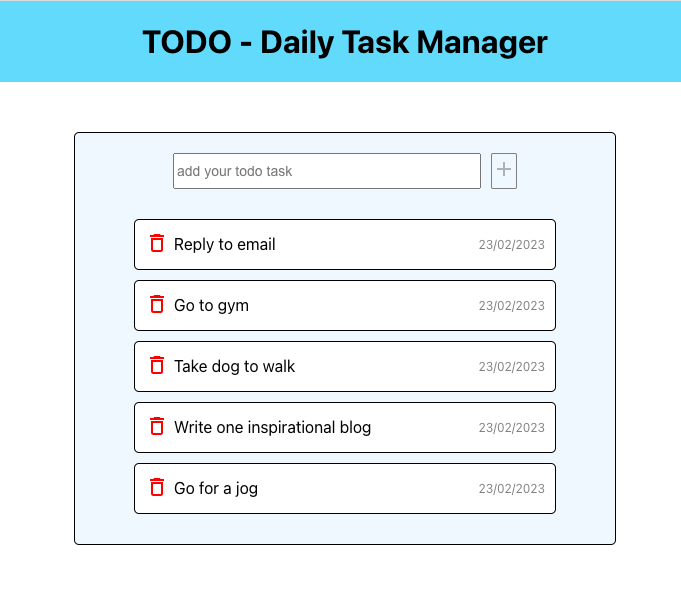
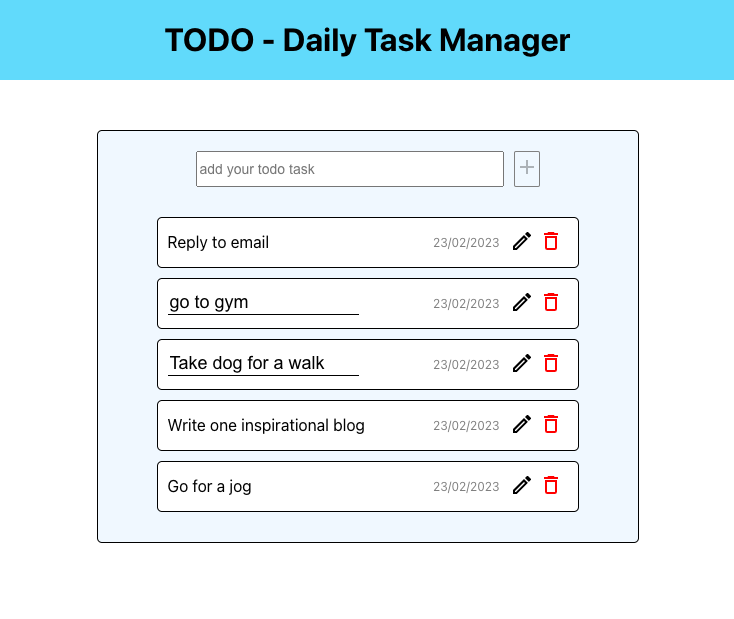
feat: Add edit todo functionality

diff --git a/src/client/components/todo/todo.component.tsx b/src/client/components/todo/todo.component.tsx
@@ -1,30 +1,83 @@
-import React from "react";
+import React, { useState } from "react";
 
-import { DeleteOutlined } from "@material-ui/icons";
-import { useDispatch } from "react-redux";
+import "./todo.css";
 
-import { TodoItem } from "../../types/todos.types";
+import { DeleteOutlined, EditOutlined } from "@material-ui/icons";
+import { useDispatch, useSelector } from "react-redux";
+
+import { TodoItem, TodoListReducer } from "../../types/todos.types";
 import { actions } from "../reducer";
 
-const { deleteTodo } = actions;
+const { deleteTodo, editTodos } = actions;
 const Todo = ({ item }: { item: TodoItem }) => {
   const dispatch = useDispatch();
+
+  const { todos } = useSelector(({ todoList }: TodoListReducer) => ({
+    todos: todoList.items,
+  }));
+
+  const [todoText, setTodoText] = useState(item.description);
+  const [isEditEnabled, setIsEditEnabled] = useState(false);
 
   const deleteItem = () => {
     dispatch(deleteTodo(item.id));
   };
 
+  const editItem = () => {
+    const editedTodos = todos.map((todo) => {
+      if (todo.id === item.id) {
+        return {
+          ...todo,
+          description: todoText,
+          updatedAt: new Date().toString(),
+        };
+      }
+      return todo;
+    });
+    dispatch(editTodos(editedTodos));
+  };
+
+  const handleKeyDown = (e: React.KeyboardEvent) => {
+    if (e.key === "Enter" && !!todoText.length) {
+      editItem();
+      setIsEditEnabled(false);
+    }
+  };
+
+  const handleChange = (e: React.ChangeEvent<HTMLInputElement>) => {
+    setTodoText(e.target.value);
+  };
+
   return (
     <div className="todo">
       <div className="todo-detail">
+        {isEditEnabled ? (
+          <input
+            type="text"
+            placeholder="edit your todo task"
+            id="todo-edit-input"
+            value={todoText}
+            onKeyDown={handleKeyDown}
+            onChange={handleChange}
+          />
+        ) : (
+          <span>{item.description}</span>
+        )}
+        <span className="creation-date">
+          {new Date(item.createdAt).toLocaleDateString()}
+        </span>
+      </div>
+      <div className="todo-actions">
+        <button
+          className="edit-todo"
+          onClick={() => setIsEditEnabled(!isEditEnabled)}
+        >
+          <EditOutlined />
+        </button>
         <button className="delete-todo" onClick={deleteItem}>
           <DeleteOutlined />
         </button>
-        <span>{item.description}</span>
       </div>
-      <span className="creation-date">
-        {new Date(item.createdAt).toLocaleDateString()}
-      </span>
     </div>
   );
 };

diff --git a/src/client/components/todo/todo.css b/src/client/components/todo/todo.css
@@ -1,0 +1,42 @@
+.todo {
+    display: flex;
+    padding: 10px;
+    border: 1px solid black;
+    border-radius: 5px;
+    width: 400px;
+    background-color: white;
+    text-align: left;
+}
+
+.todo-detail {
+    display: flex;
+    align-items: center;
+    flex-grow: 1;
+    justify-content: space-between;
+}
+
+.todo-actions {
+    margin-left: 10px;
+}
+
+.delete-todo,.edit-todo {
+    margin-right: 5px;
+    color: red;
+    border: unset;
+}
+
+.edit-todo {
+    color: unset;
+}
+
+.creation-date {
+    font-size: 12px;
+    color: grey;
+}
+
+#todo-edit-input {
+    border: none;
+    border-bottom: 1px solid;
+    outline: none;
+    font-size: 18px;
+}

diff --git a/src/client/components/todo-list/todo-list.css b/src/client/components/todo-list/todo-list.css
@@ -16,31 +16,3 @@
     flex-direction: column;
     gap: 10px;
 }
-
-.todo {
-    display: flex;
-    justify-content: space-between;
-    padding: 10px;
-    border: 1px solid black;
-    border-radius: 5px;
-    width: 400px;
-    background-color: white;
-    text-align: left;
-}
-
-.todo-detail {
-    display: flex;
-    align-items: center;
-}
-
-.delete-todo {
-    margin-right: 5px;
-    color: red;
-    border: unset;
-}
-
-.creation-date {
-    font-size: 12px;
-    color: grey;
-    align-self: center;
-}

diff --git a/src/client/components/reducer.ts b/src/client/components/reducer.ts
@@ -13,6 +13,9 @@ const todoList = createSlice({
     addTodo(state, { payload }) {
       state.items.push(payload);
     },
+    editTodos(state, { payload }) {
+      state.items = payload;
+    },
     deleteTodo(state, { payload }) {
       state.items = state.items.filter((item) => item.id !== payload);
     },
